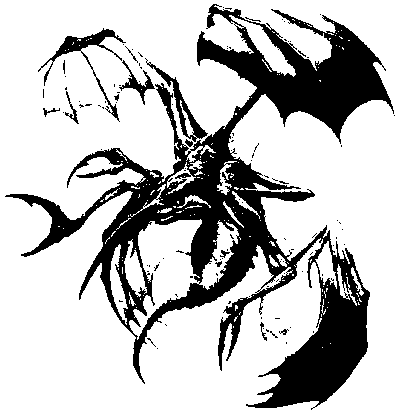
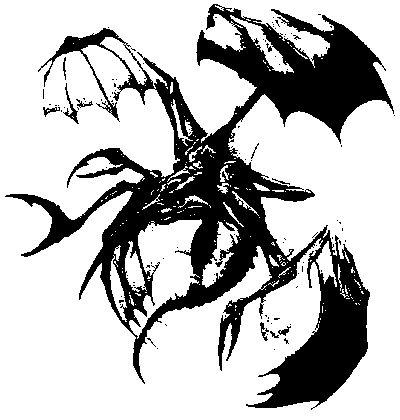
Add border segmentation, adjust tests

diff --git a/src/border_detection.py b/src/border_detection.py
@@ -1,5 +1,6 @@
-import image_interface as ii
 import numpy as np
+import cv2
+import random
 
 
 def shift_2d(matrix: np.ndarray, shift_x: int, shift_y: int):
@@ -55,6 +56,7 @@ def shift_2d(matrix: np.ndarray, shift_x: int, shift_y: int):
 
 
 def detect_borders(image: np.ndarray, is_8neighbor_method: bool) -> np.ndarray:
+    """Produce a matrix, containing the borders of the black areas."""
 
     # get black pixels with white 4-neighbors
     white_up = np.clip(image - shift_2d(image, 1, 0) + 255, 0, 255)
@@ -81,7 +83,38 @@ def detect_borders(image: np.ndarray, is_8neighbor_method: bool) -> np.ndarray:
         return borders_4neighbor
 
 
-def test():
+def borders_to_segments(image: np.ndarray, is_8neighbor_method: bool,
+                        viewableOutput: bool) -> (int, np.ndarray):
+    """ Returns segment label matrix or viewable segmented image"""
+    image_as_mask = np.array(image, dtype=np.uint8)
+    output = cv2.connectedComponents(
+        255 - image_as_mask,
+        connectivity=8 if is_8neighbor_method else 4)
+    (num_labels, labels) = output
+
+    if not viewableOutput:
+        return labels
+    else:
+        segmented_image = cv2.cvtColor(image_as_mask, cv2.COLOR_GRAY2RGB)
+
+        for i in range(0, num_labels):
+            label_mask = (labels == i).astype('uint8') * 255
+            label_color = np.zeros_like(segmented_image)
+            label_color[:, :, 0] = random.randrange(20, 220)
+            label_color[:, :, 1] = random.randrange(20, 220)
+            label_color[:, :, 2] = random.randrange(20, 220)
+            colored_border = cv2.bitwise_and(
+                cv2.cvtColor(label_mask, cv2.COLOR_GRAY2RGB),
+                label_color, mask=255 - image_as_mask)
+            segmented_image = segmented_image + colored_border
+
+        return segmented_image
+
+
+if __name__ == "__main__":
+    # Testing
+    import image_interface as ii
+
     # img = ii.import_image_as_matrix('../data/test_8x8.png')
     img = ii.import_image_as_matrix('../data/test_420x400.png')
 
@@ -97,11 +130,15 @@ def test():
     # print(detect_borders(img, is_8neighbor_method=False))
     # print(detect_borders(img, is_8neighbor_method=True))
 
-    ii.output_matrix_as_image(
-        '../output/borders_4n.png', detect_borders(img, False))
-    ii.output_matrix_as_image(
-        '../output/borders_8n.png', detect_borders(img, True))
+    # ii.output_matrix_as_image(
+    #     '../output/borders_4n.png', detect_borders(img, False))
+    # ii.output_matrix_as_image(
+    #     '../output/borders_8n.png', detect_borders(img, True))
 
+    # 4-neighbourhood borders are 8-connected for segmentation
+    # and vice versa
 
-if __name__ == "__main__":
-    test()
+    segmented_4n = borders_to_segments(detect_borders(img, False), True, True)
+    segmented_8n = borders_to_segments(detect_borders(img, True), False, True)
+    ii.output_matrix_as_image('../output/segmented_4n.png', segmented_4n)
+    ii.output_matrix_as_image('../output/segmented_8n.png', segmented_8n)

diff --git a/src/image_interface.py b/src/image_interface.py
@@ -9,7 +9,7 @@ def import_image_as_matrix(file_name: str) -> np.ndarray:
     im = cv2.imread(file_name)
 
     # To Grayscale
-    im = cv2.cvtColor(im, cv2.COLOR_BGR2GRAY)
+    im = cv2.cvtColor(im, cv2.COLOR_RGB2GRAY)
 
     # To Black & White
     im = cv2.threshold(im, 127, 255, cv2.THRESH_BINARY)[1]
@@ -19,13 +19,10 @@ def import_image_as_matrix(file_name: str) -> np.ndarray:
 
 
 def output_matrix_as_image(file_name: str, matrix: np.ndarray):
+    """Export the given matrix as an image."""
     cv2.imwrite(file_name, matrix)
 
 
-def test():
+if __name__ == "__main__":
     im = import_image_as_matrix('../data/test_420x400.png')
     output_matrix_as_image("../output/binary_input.png", im)
-
-
-if __name__ == "__main__":
-    test()
